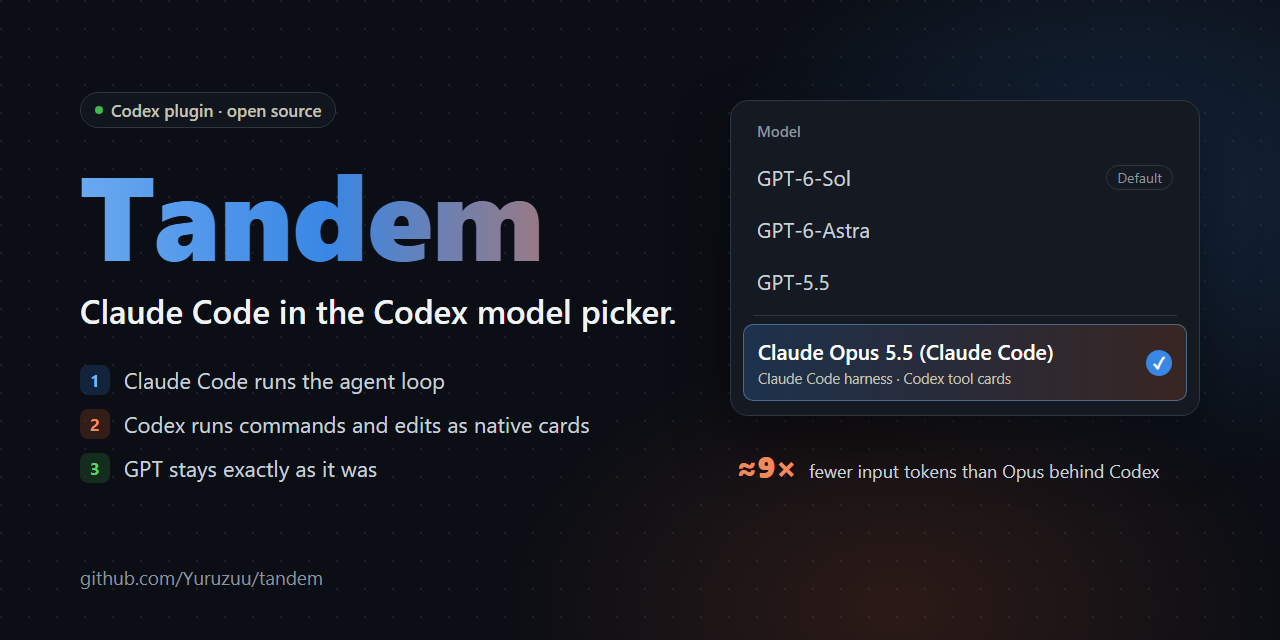
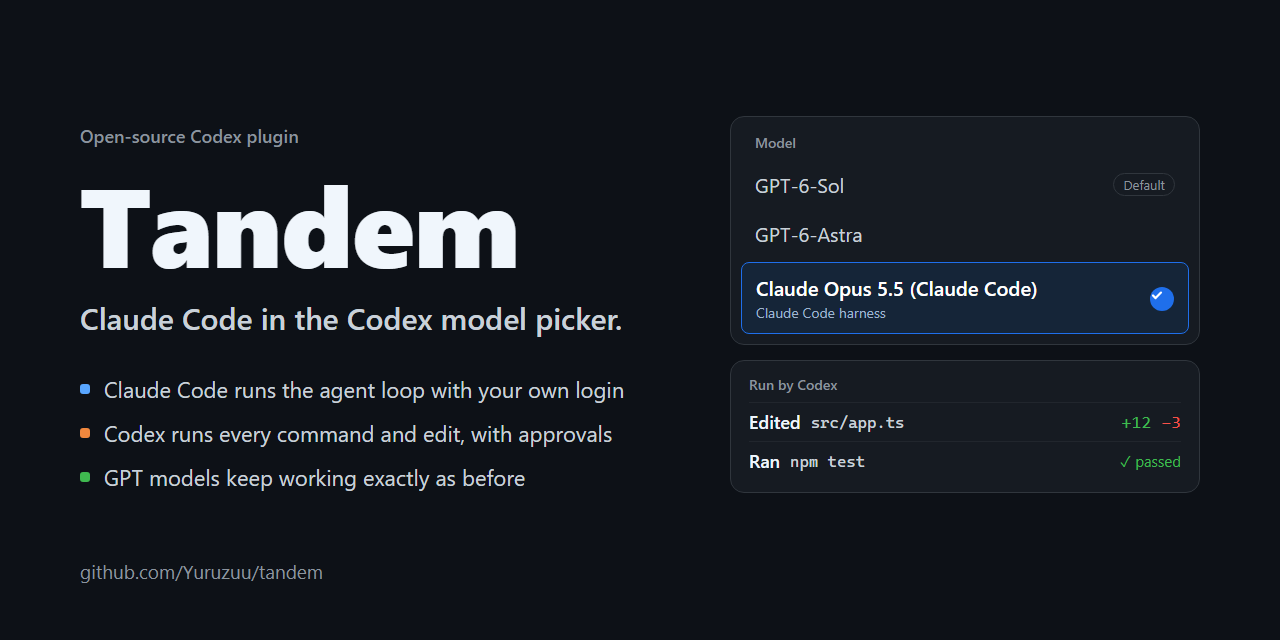
docs: simplify the social preview

diff --git a/docs/social-preview.html b/docs/social-preview.html
@@ -2,57 +2,52 @@
 <!-- Source for social-preview.png (1280x640). Render: msedge --headless=new --window-size=1280,640 --screenshot=social-preview.png social-preview.html -->
 <html><head><meta charset="utf-8"><style>
   * { box-sizing: border-box; margin: 0; }
-  body { width: 1280px; height: 640px; overflow: hidden; font-family: 'Segoe UI', -apple-system, Helvetica, Arial, sans-serif;
-         color: #f0f3f6; background: #0b0e14; position: relative; }
-  .bg { position: absolute; inset: 0;
-        background-image: radial-gradient(circle at 1px 1px, rgba(255,255,255,.07) 1px, transparent 0); background-size: 28px 28px; }
-  .glow { position: absolute; inset: 0; background:
-        radial-gradient(600px 420px at 88% 30%, rgba(57,135,229,.20), transparent 70%),
-        radial-gradient(560px 380px at 70% 95%, rgba(217,89,38,.16), transparent 70%); }
-  .left { position: absolute; left: 80px; top: 92px; width: 620px; }
-  .pill { display: inline-flex; align-items: center; gap: 8px; font-size: 17px; font-weight: 600; letter-spacing: 0;
-          color: #c3c2b7; border: 1px solid #30363d; background: #11161e; border-radius: 999px; padding: 6px 14px; }
-  .pill i { width: 8px; height: 8px; border-radius: 50%; background: #3fb950; display: inline-block; }
-  h1 { font-size: 118px; font-weight: 800; line-height: 1; margin-top: 26px; letter-spacing: -1px;
-       background: linear-gradient(90deg, #6aa8f0 0%, #3987e5 40%, #e0703f 100%); -webkit-background-clip: text; color: transparent; }
-  .tag { font-size: 33px; font-weight: 600; margin-top: 18px; line-height: 1.25; }
-  ul { list-style: none; padding: 0; margin-top: 34px; }
+  body { width: 1280px; height: 640px; overflow: hidden; background: #0d1117; color: #f0f6fc;
+         font-family: 'Segoe UI', -apple-system, Helvetica, Arial, sans-serif; position: relative; }
+  .left { position: absolute; left: 80px; top: 124px; width: 600px; }
+  .label { font-size: 18px; font-weight: 600; color: #8b949e; }
+  h1 { font-size: 112px; font-weight: 800; line-height: 1; margin-top: 18px; letter-spacing: -1px; }
+  .tag { font-size: 30px; font-weight: 600; color: #c9d1d9; margin-top: 20px; }
+  ul { list-style: none; padding: 0; margin-top: 36px; }
   li { display: flex; align-items: center; gap: 14px; font-size: 22px; color: #c9d1d9; margin-top: 14px; }
-  li b { width: 30px; height: 30px; border-radius: 8px; display: grid; place-items: center; font-size: 17px; font-weight: 700; flex: none; }
-  .b1 { background: rgba(57,135,229,.18); color: #79b3f5; } .b2 { background: rgba(217,89,38,.2); color: #f08a5d; } .b3 { background: rgba(63,185,80,.18); color: #56d364; }
-  .url { position: absolute; left: 80px; bottom: 50px; font-size: 19px; color: #8b949e; }
-  .card { position: absolute; right: 80px; top: 100px; width: 470px; background: #151a22; border: 1px solid #30363d; border-radius: 18px;
-          padding: 16px 12px 14px; box-shadow: 0 24px 60px rgba(0,0,0,.45); }
-  .card h2 { font-size: 15px; font-weight: 600; color: #8b949e; padding: 4px 14px 10px; }
-  .row { display: flex; align-items: center; justify-content: space-between; font-size: 21px; padding: 12px 14px; border-radius: 10px; color: #c9d1d9; }
-  .row small { font-size: 14px; color: #8b949e; border: 1px solid #30363d; border-radius: 999px; padding: 2px 10px; }
-  .sep { height: 1px; background: #30363d; margin: 8px 10px; }
-  .pick { background: linear-gradient(90deg, rgba(57,135,229,.22), rgba(217,89,38,.18)); border: 1px solid rgba(121,179,245,.45); color: #fff; font-weight: 600; }
-  .pick span.sub { display: block; font-size: 14.5px; font-weight: 400; color: #c3c2b7; margin-top: 3px; }
-  .check { width: 26px; height: 26px; border-radius: 50%; background: #3987e5; display: grid; place-items: center; color: #fff; font-size: 16px; font-weight: 700; }
-  .stat { position: absolute; right: 80px; top: 446px; width: 470px; display: flex; align-items: baseline; gap: 12px;
-          font-size: 18px; color: #c9d1d9; padding: 0 6px; }
-  .stat strong { font-size: 30px; color: #f08a5d; font-weight: 800; }
+  li i { width: 10px; height: 10px; border-radius: 3px; flex: none; }
+  .url { position: absolute; left: 80px; bottom: 56px; font-size: 19px; color: #8b949e; }
+  .card { position: absolute; right: 80px; width: 470px; background: #161b22; border: 1px solid #30363d; border-radius: 14px; }
+  .picker { top: 116px; padding: 14px 10px 10px; }
+  .card h2 { font-size: 14px; font-weight: 600; color: #8b949e; padding: 2px 14px 8px; }
+  .row { display: flex; align-items: center; justify-content: space-between; font-size: 20px; padding: 11px 14px; border-radius: 8px; color: #c9d1d9; }
+  .row small { font-size: 13px; color: #8b949e; border: 1px solid #30363d; border-radius: 999px; padding: 2px 9px; }
+  .pick { background: #152538; border: 1px solid #1f6feb; color: #fff; font-weight: 600; margin-top: 4px; }
+  .pick span { display: block; font-size: 14px; font-weight: 400; color: #9fb4cc; margin-top: 2px; }
+  .check { width: 24px; height: 24px; border-radius: 50%; background: #1f6feb; display: grid; place-items: center; font-size: 14px; font-weight: 700; }
+  .work { top: 360px; padding: 12px 18px; }
+  .work h2 { padding: 2px 0 8px; }
+  .line { display: flex; align-items: center; gap: 10px; font-size: 18px; color: #c9d1d9; padding: 7px 0; border-top: 1px solid #21262d; }
+  .line b { font-weight: 600; color: #f0f6fc; }
+  .line code { font-family: 'Cascadia Code', Consolas, monospace; font-size: 16px; color: #c9d1d9; }
+  .add { color: #3fb950; margin-left: auto; font-family: Consolas, monospace; } .del { color: #f85149; font-family: Consolas, monospace; }
+  .ok { color: #3fb950; margin-left: auto; font-size: 15px; }
 </style></head><body>
-  <div class="bg"></div><div class="glow"></div>
   <div class="left">
-    <span class="pill"><i></i>Codex plugin · open source</span>
+    <div class="label">Open-source Codex plugin</div>
     <h1>Tandem</h1>
     <p class="tag">Claude Code in the Codex model picker.</p>
     <ul>
-      <li><b class="b1">1</b>Claude Code runs the agent loop</li>
-      <li><b class="b2">2</b>Codex runs commands and edits as native cards</li>
-      <li><b class="b3">3</b>GPT stays exactly as it was</li>
+      <li><i style="background:#58a6ff"></i>Claude Code runs the agent loop with your own login</li>
+      <li><i style="background:#f0883e"></i>Codex runs every command and edit, with approvals</li>
+      <li><i style="background:#3fb950"></i>GPT models keep working exactly as before</li>
     </ul>
   </div>
   <div class="url">github.com/Yuruzuu/tandem</div>
-  <div class="card">
+  <div class="card picker">
     <h2>Model</h2>
     <div class="row">GPT-6-Sol <small>Default</small></div>
     <div class="row">GPT-6-Astra</div>
-    <div class="row">GPT-5.5</div>
-    <div class="sep"></div>
-    <div class="row pick"><div>Claude Opus 5.5 (Claude Code)<span class="sub">Claude Code harness · Codex tool cards</span></div><span class="check">✓</span></div>
+    <div class="row pick"><div>Claude Opus 5.5 (Claude Code)<span>Claude Code harness</span></div><span class="check"><svg width="14" height="14" viewBox="0 0 14 14"><path d="M3 7.5l2.6 2.6L11 4.6" fill="none" stroke="#fff" stroke-width="2.2" stroke-linecap="round" stroke-linejoin="round"/></svg></span></div>
   </div>
-  <div class="stat"><strong>≈9×</strong> fewer input tokens than Opus behind Codex</div>
+  <div class="card work">
+    <h2>Run by Codex</h2>
+    <div class="line"><b>Edited</b><code>src/app.ts</code><span class="add">+12</span><span class="del">−3</span></div>
+    <div class="line"><b>Ran</b><code>npm test</code><span class="ok">✓ passed</span></div>
+  </div>
 </body></html>
